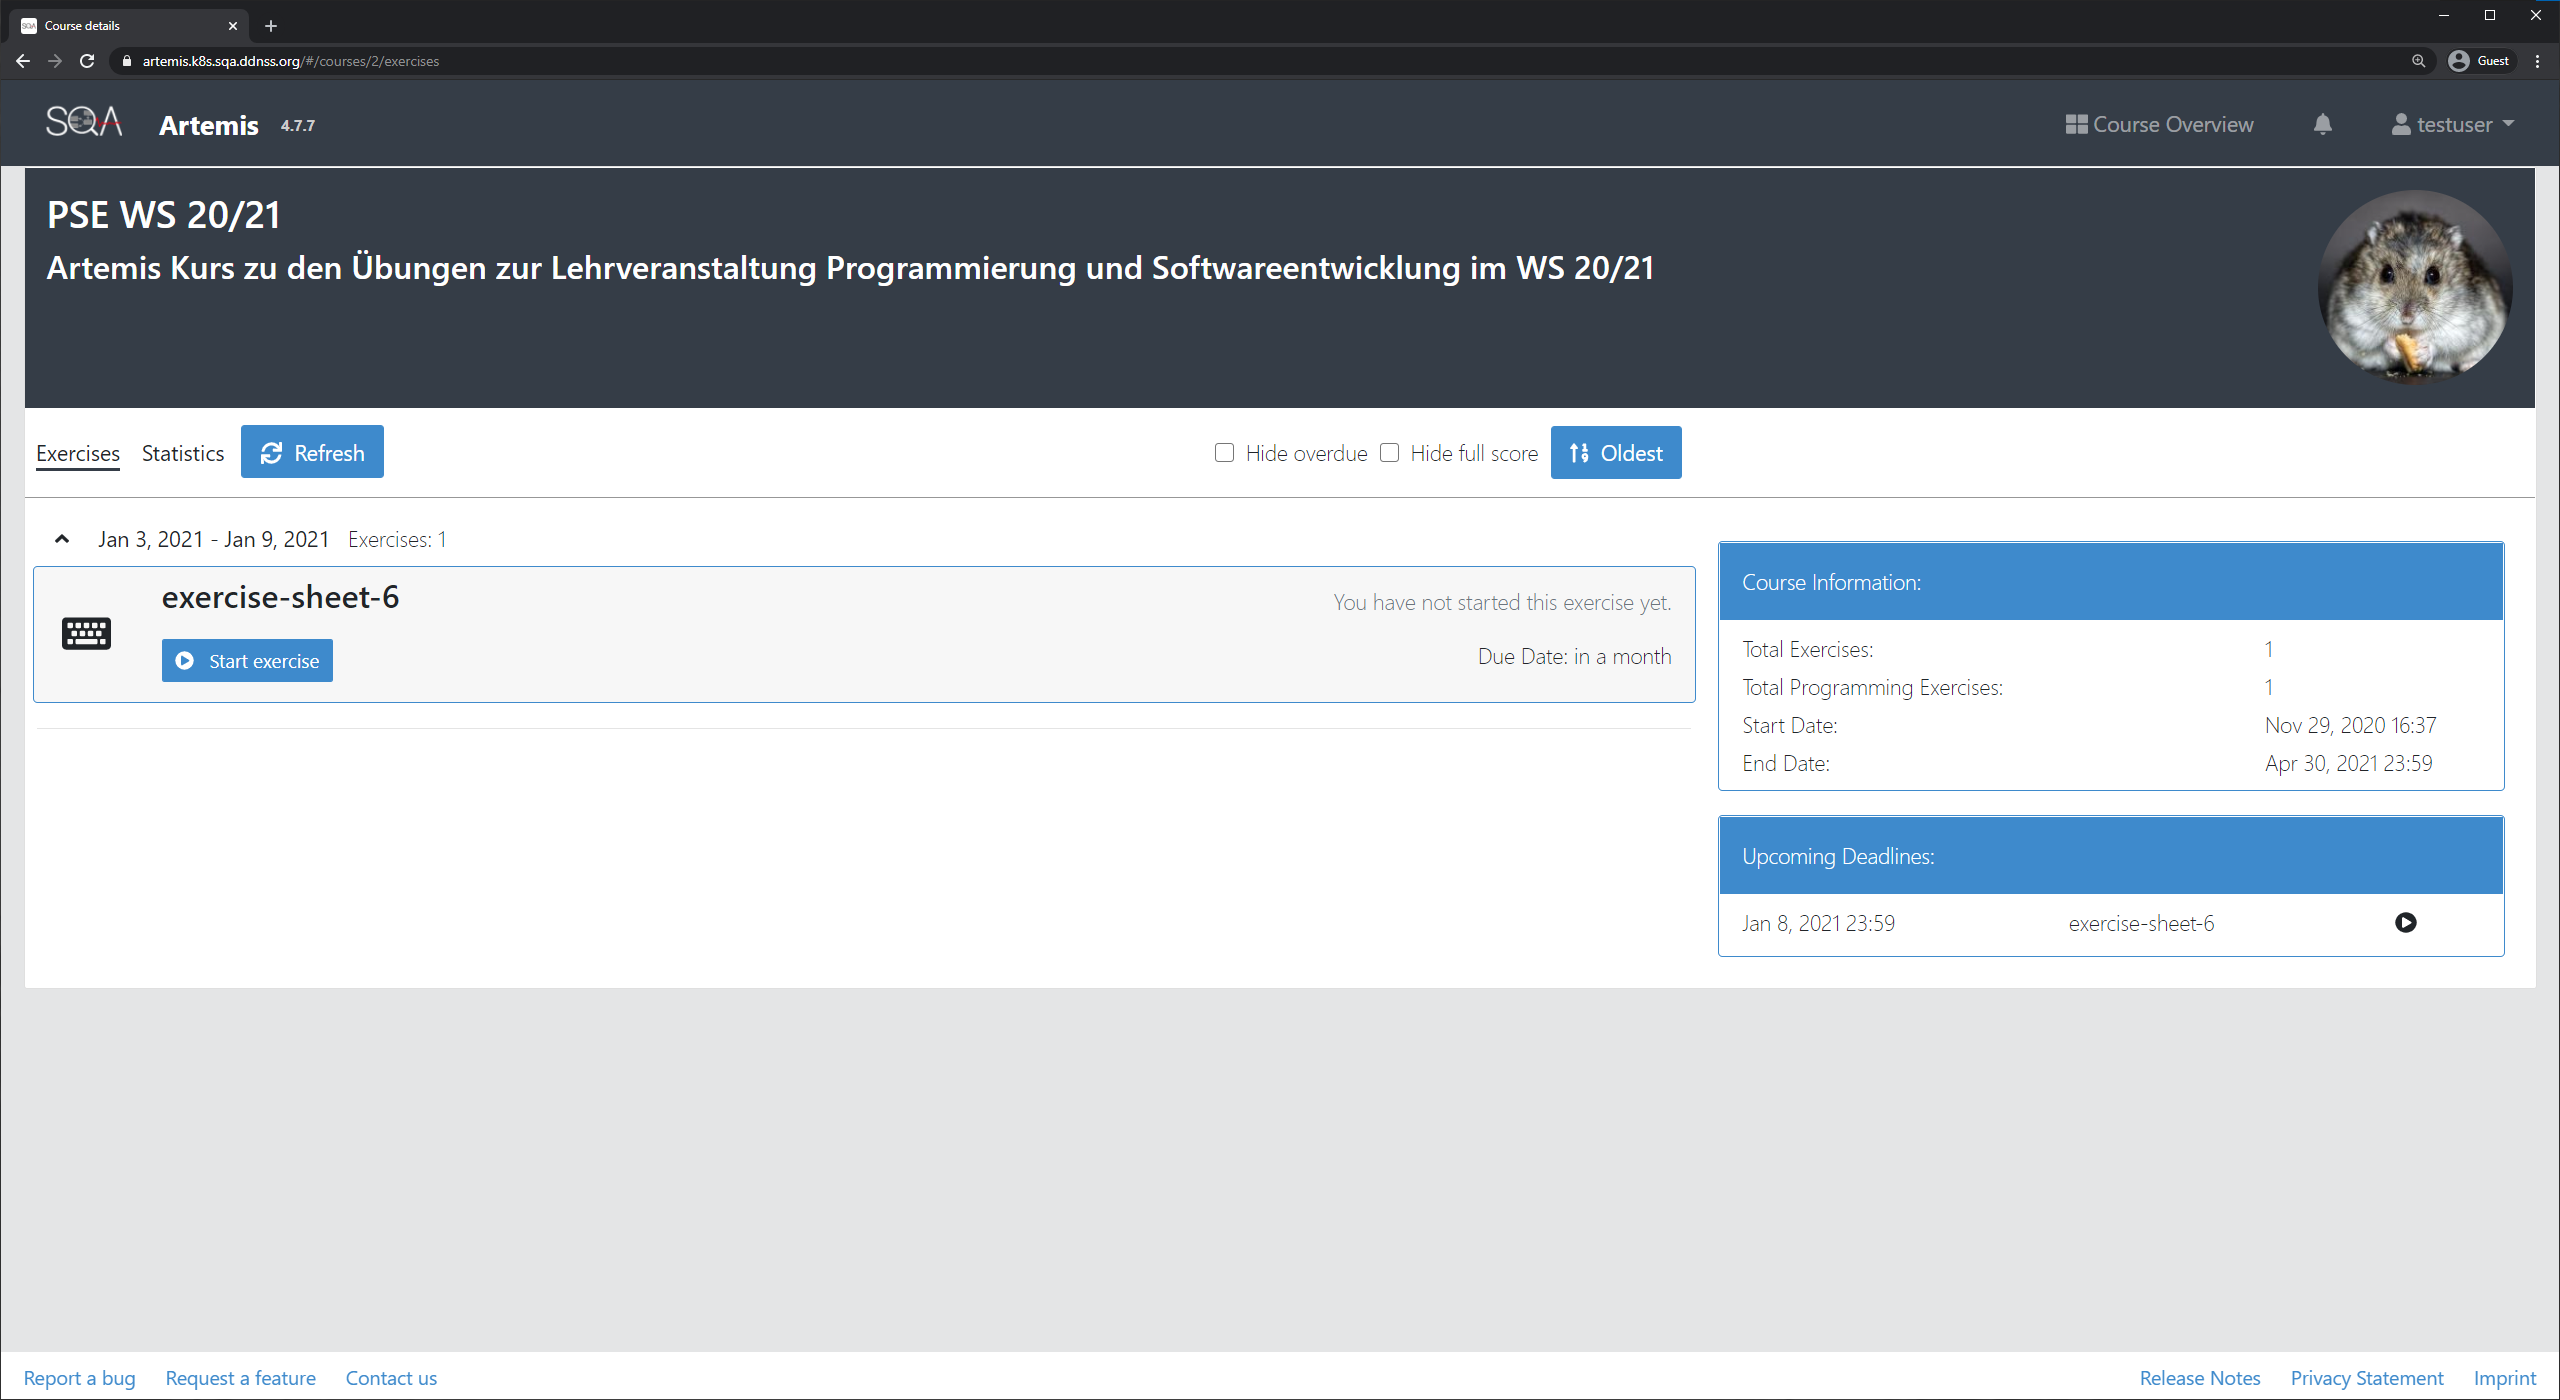
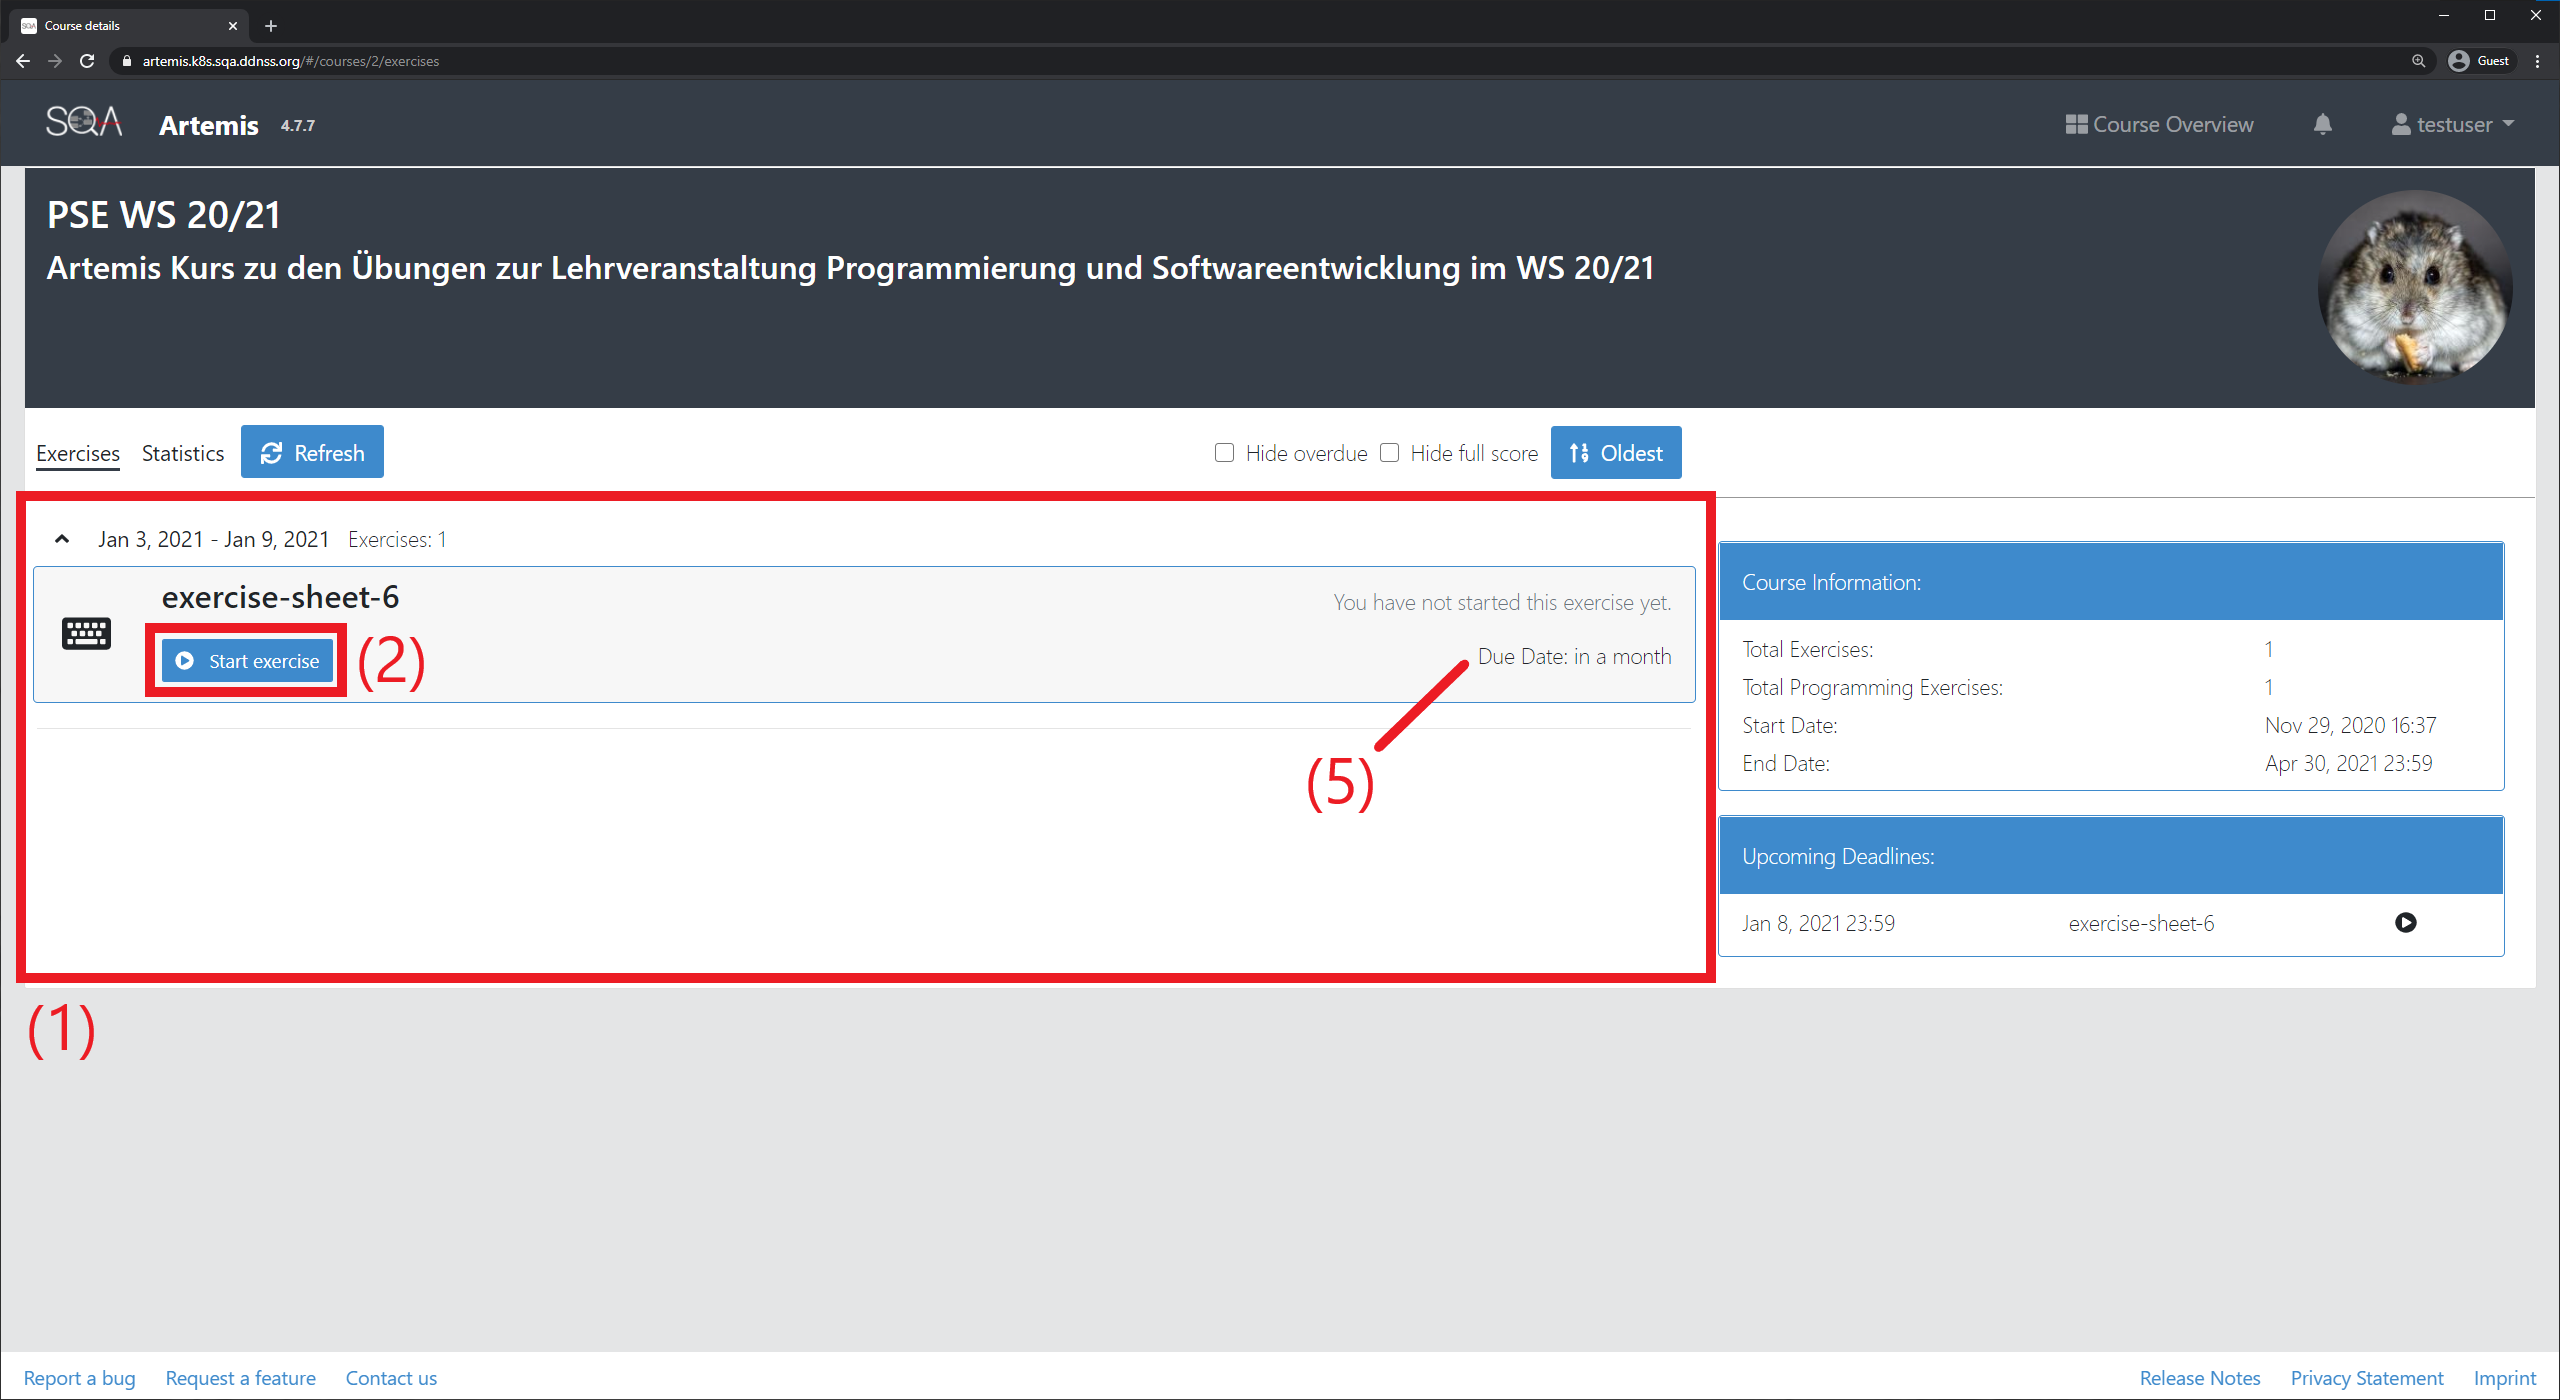
improved exercise view description

diff --git a/doc.md b/doc.md
@@ -63,7 +63,7 @@ Das Artemis der Universität Stuttgart findet man unter [https://artemis.k8s.sqa
 > Hinweis: für diese Ansicht muss man [angemeldet sein](#Anmelden)
 
 ![Hauptansicht mit Kurs](Images/with_course.png)
-- Auf der Überblicksseite sind alle angemeldeten Kurse sichtbar
+- Auf der Überblicksseite sind alle angemeldeten Kurse **(1)** sichtbar
     - Ist der Kurs _PSE WS 20/21_ nicht sichtbar, [steht die Anmeldung für diesen noch aus](#Für-PSE-Kurs-anmelden)
     - Durch einen Klick auf den Kurs erhält man einen [Überblick über die Aufgaben des Kurses](#Aufgabenübersicht)
 
@@ -71,9 +71,21 @@ Das Artemis der Universität Stuttgart findet man unter [https://artemis.k8s.sqa
 ![Aufgaben](Images/exercises.png)
 ![Aufgabe auswählen](Images/exercise.png)
 ![Projekt herunterladen](Images/clone.png)
+- Unter **(1)** findet sich eine chronologische Auflistung aller Aufgaben
+- Noch nicht gestartete Aufgaben erkennt man  am _Start exercise_ **(2)** Button  
+  - Durch einen Klick auf diesen Startet man die Aufgabe
+- Schon gestartete Aufgaben erkennt man am _Clone Repository_ **(3)** Button
+    - Durch einen Klick auf diesen öffnet sich ein Popup, in dem man die URL des Repositories kopieren **(4)** kann
+    - Diese URL ist notwendig um das Projekt...
+        - ... in Eclipse zu öffnen: siehe Video _Versionskontrolle mit git (Theorie)_ und Anleitung Übungsblatt, Anleitung hier folgt
+        - ... in SQA Code online öffnen: coming soon
+    - Beim Herunterladen des Projekts wird ein Passwort (und ggf. ein Username) abgefragt: hierbei handelt es sich um das Artemis-Password und Username
+- Durch einen Klick auf die jeweilige Aufgabe galangt man zur [Detailansicht der Aufgabe](#Aufgabendetails)
+- Jede Aufgabe hat ein Abgabedatum (/Einreichungsfrist) **(5)**
+    - Achtung: Abgaben finden weiterhin in Ilias statt! Das Abgabedatum auf dem Arbeitsblatt / in Ilias ist gültig! Die Angabe in Artemis dient nur zur Orientierung und kann (u.a. aus technischen Gründen) abweichen.
 
 ## Aufgabendetails
-> Hinweis: um diese Ansicht zu erreichen siehe [Aufgabenüberblick](#Aufgabenüberblick)
+> Hinweis: zu dieser Ansicht zu gelangen siehe [Aufgabenüberblick](#Aufgabenüberblick)
 
 ![Aufgabendetails](Images/exercise_detail.png)
 ![Feedback](Images/feedback.png)
